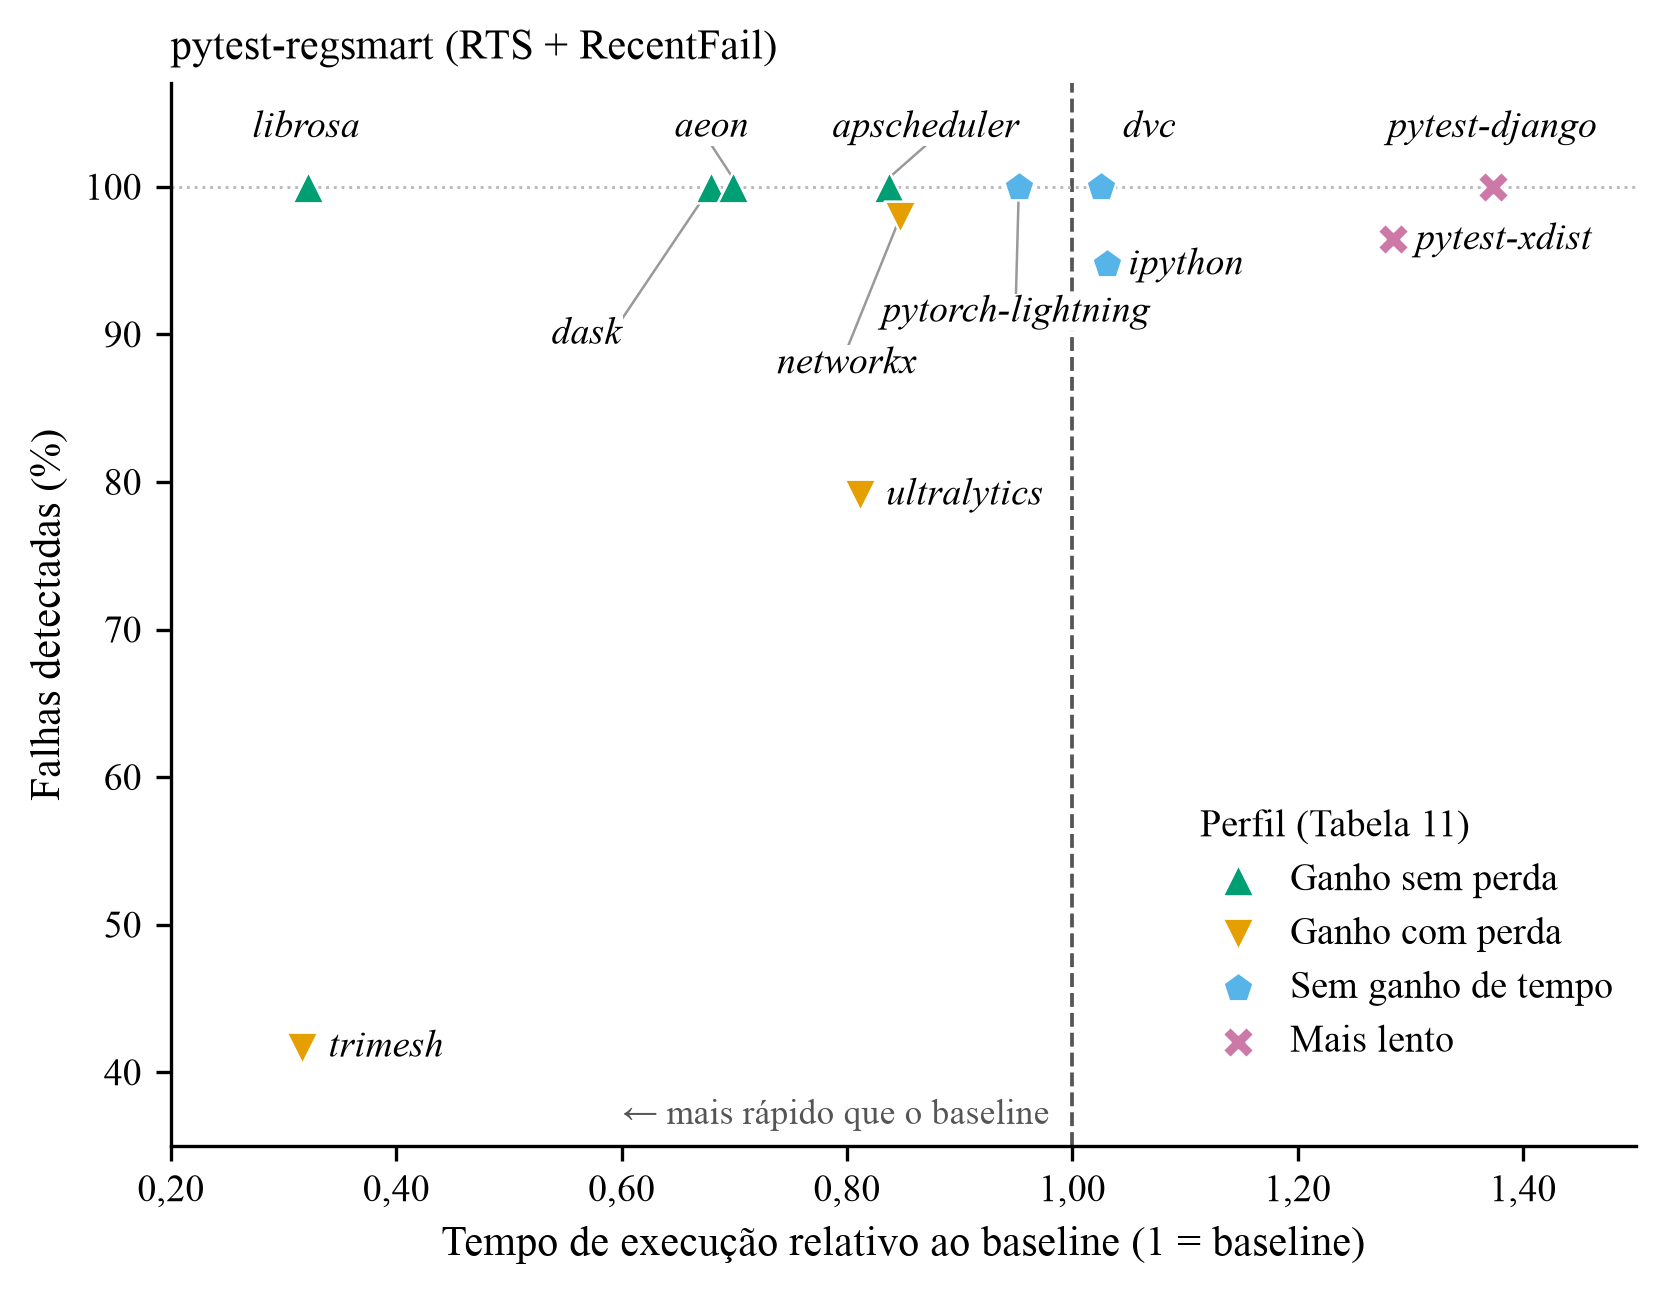
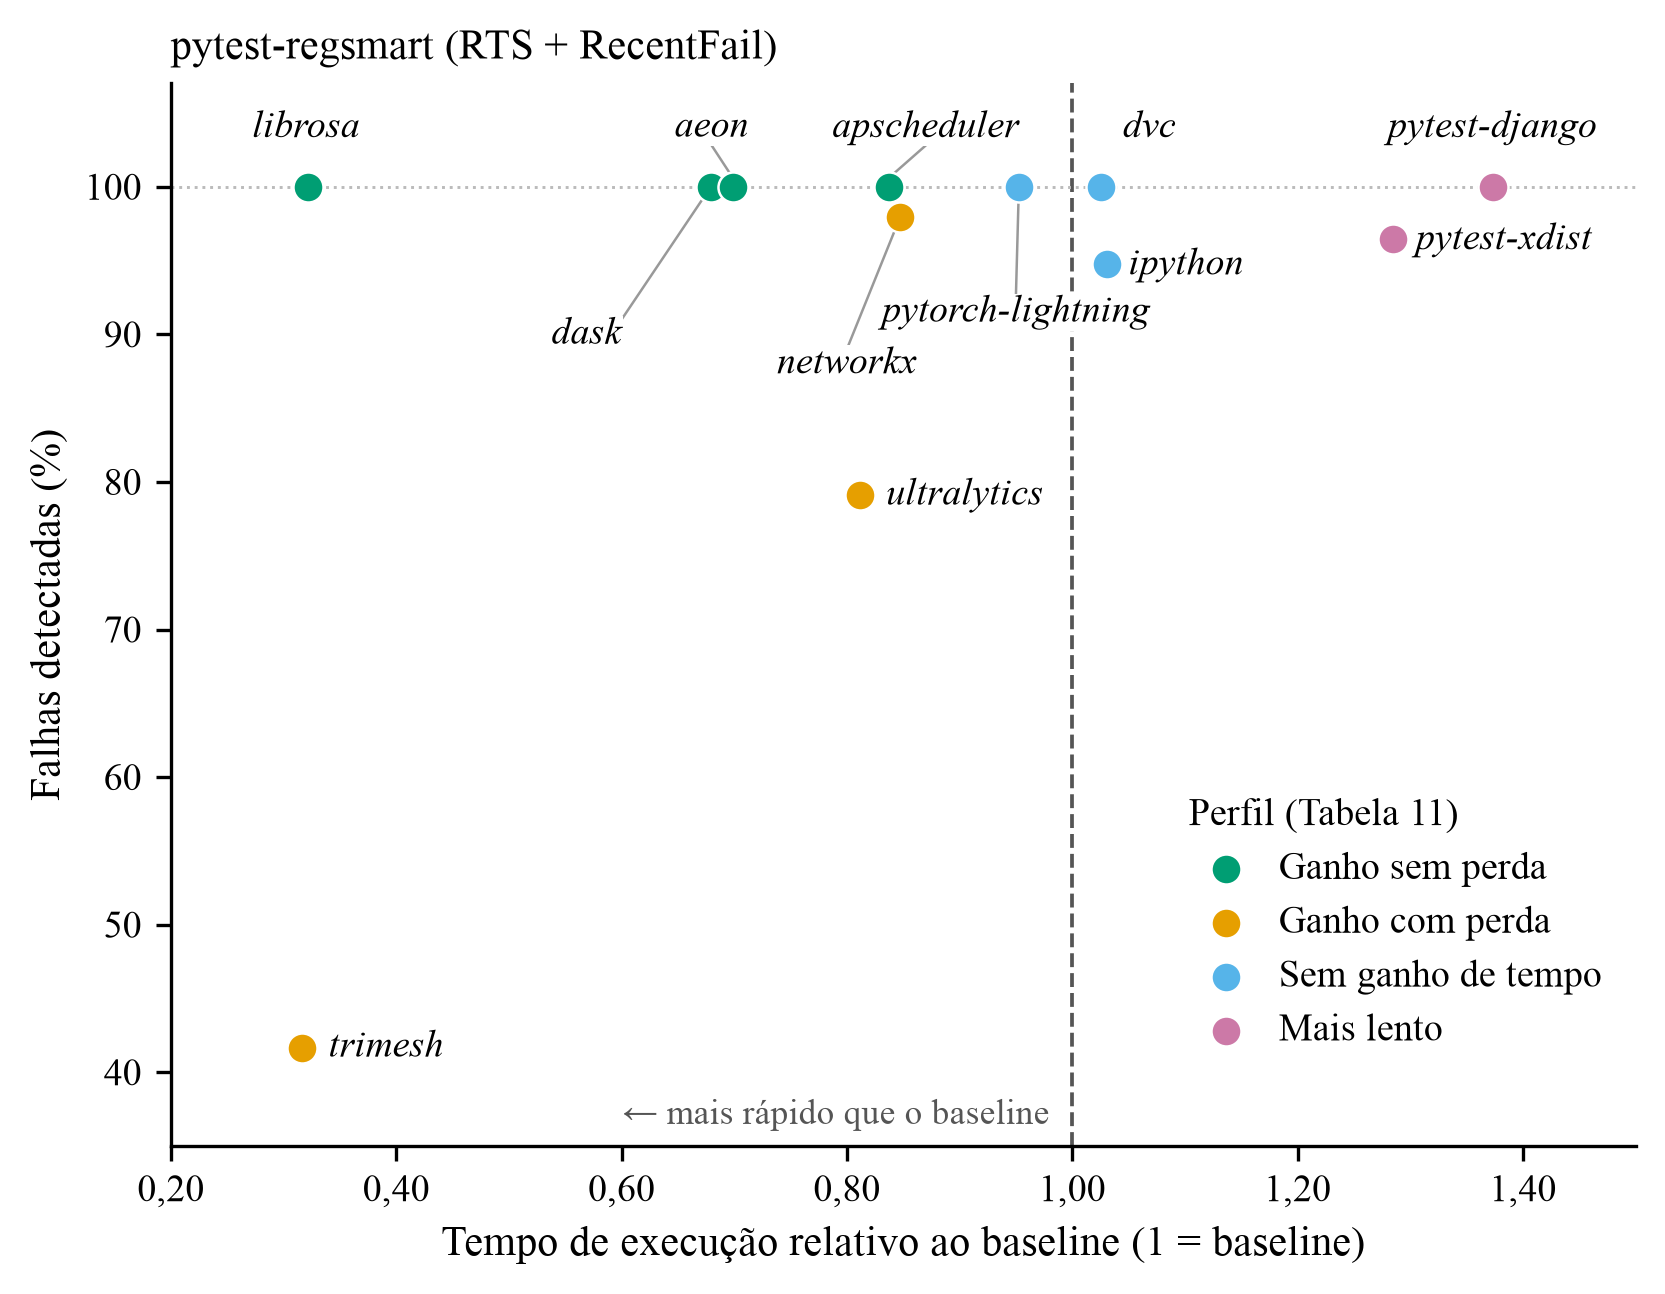
feat(graficos): fig_tempo_deteccao só com cor por perfil (círculos)
Versão escolhida: todos os pontos em círculo, cor Okabe-Ito pelo perfil da Tabela 11 e legenda
'Perfil (Tabela 11)'. Substitui a versão com forma por perfil (1bb2007). README atualizado.

diff --git a/graficos_monografia.py b/graficos_monografia.py
@@ -178,14 +178,12 @@ ROTULOS = {
 }
 
 
-# cor (Okabe-Ito) e forma de cada perfil na dispersão. As formas não repetem as dos plugins na fig_tempos_log
-# (círculo vazado = baseline, quadrado = pytest-ranking, losango = pytest-regsmart): triângulo para cima = ganho
-# sem perda, para baixo = ganho com perda, pentágono = sem ganho de tempo, X = mais lento.
-ESTILO_PERFIL = {
-    "Ganho sem perda": ("#009E73", "^"),
-    "Ganho com perda": ("#E69F00", "v"),
-    "Sem ganho de tempo": ("#56B4E9", "p"),
-    "Mais lento": ("#CC79A7", "X"),
+# cor (Okabe-Ito) de cada perfil na dispersão; todos os pontos são círculos (um único modo, RTS + RecentFail)
+COR_PERFIL = {
+    "Ganho sem perda": "#009E73",
+    "Ganho com perda": "#E69F00",
+    "Sem ganho de tempo": "#56B4E9",
+    "Mais lento": "#CC79A7",
 }
 
 
@@ -194,11 +192,10 @@ def fig_tempo_deteccao(D: dict, out: Path):
         fig, ax = plt.subplots(figsize=FIGSIZE)
         ax.axvline(1, color="#555", lw=0.9, ls="--", zorder=0)
         ax.axhline(100, color="#bbb", lw=0.7, ls=":", zorder=0)
-        # um único modo (RTS + RecentFail): cor e forma indicam o perfil do projeto na Tabela 11
+        # um único modo (RTS + RecentFail): a cor indica o perfil do projeto na Tabela 11
         for perfil, itens in PERFIS:
             rs = [r for r, _ in itens if r in D]
-            cor, marca = ESTILO_PERFIL[perfil]
-            ax.scatter([D[r]["rg_rel"] for r in rs], [D[r]["pct_det"] for r in rs], s=58, marker=marca, color=cor,
+            ax.scatter([D[r]["rg_rel"] for r in rs], [D[r]["pct_det"] for r in rs], s=52, color=COR_PERFIL[perfil],
                        edgecolor="white", lw=0.6, zorder=3, label=perfil)
         for r in ORDEM:
             x, y = D[r]["rg_rel"], D[r]["pct_det"]
@@ -217,7 +214,7 @@ def fig_tempo_deteccao(D: dict, out: Path):
         ax.text(0.98, 36.5, "← mais rápido que o baseline", ha="right", fontsize=8.5, color="#555")
         ax.set_title("pytest-regsmart (RTS + RecentFail)", fontsize=10, loc="left")
         ax.legend(title="Perfil (Tabela 11)", loc="lower right", bbox_to_anchor=(1.0, 0.06), frameon=False,
-                  fontsize=9, title_fontsize=9, handletextpad=0.4, borderaxespad=0.2, alignment="left")
+                  fontsize=9, title_fontsize=9, handletextpad=0.4, alignment="left")
         salvar(fig, out, "fig_tempo_deteccao")
 
 

diff --git a/README.md b/README.md
@@ -211,7 +211,7 @@ Gerados pelos scripts das tabelas e das figuras (não versionados; rode-os de no
 | `data/flaky_mut/metrics/tables/eixos/tabelas_cap7.tex`, `tabelas_eixos.csv` | todas as tabelas do Cap. 7 na ordem do capítulo; números dos *flaky* sem formatação |
 | `data/flaky_mut/metrics/figures/fig_tempos_log.png` | tempo de execução da suíte (s) por projeto: *baseline*, *pytest-ranking* (RecentFail) e *pytest-regsmart* (RTS + RecentFail), escala logarítmica |
 | `data/flaky_mut/metrics/figures/fig_falhas_detectadas.png` | falhas detectadas e não detectadas por projeto, em % do total de cada projeto, com "x de y" (*pytest-regsmart*, RTS + RecentFail) |
-| `data/flaky_mut/metrics/figures/fig_tempo_deteccao.png` | dispersão: tempo relativo ao *baseline* × % de falhas detectadas (*pytest-regsmart*, RTS + RecentFail), com cor e forma pelo perfil da `tab:perfil-projetos` (lidos de `PERFIS` no `tabelas_eixos.py`) |
+| `data/flaky_mut/metrics/figures/fig_tempo_deteccao.png` | dispersão: tempo relativo ao *baseline* × % de falhas detectadas (*pytest-regsmart*, RTS + RecentFail), com a cor pelo perfil da `tab:perfil-projetos` (lidos de `PERFIS` no `tabelas_eixos.py`) |
 
 Não versionados (`.gitignore`): clones locais (`work/`, `_regsmart_sync/`), logs brutos (`data/flaky_mut/raw/`), cache do coletor (`data/flaky_mut/metrics/cache/`), cache do mutmut (`data/mutmut/mutcache/`) e clones da análise estática (`data/analise_projetos/forks/`).
 
